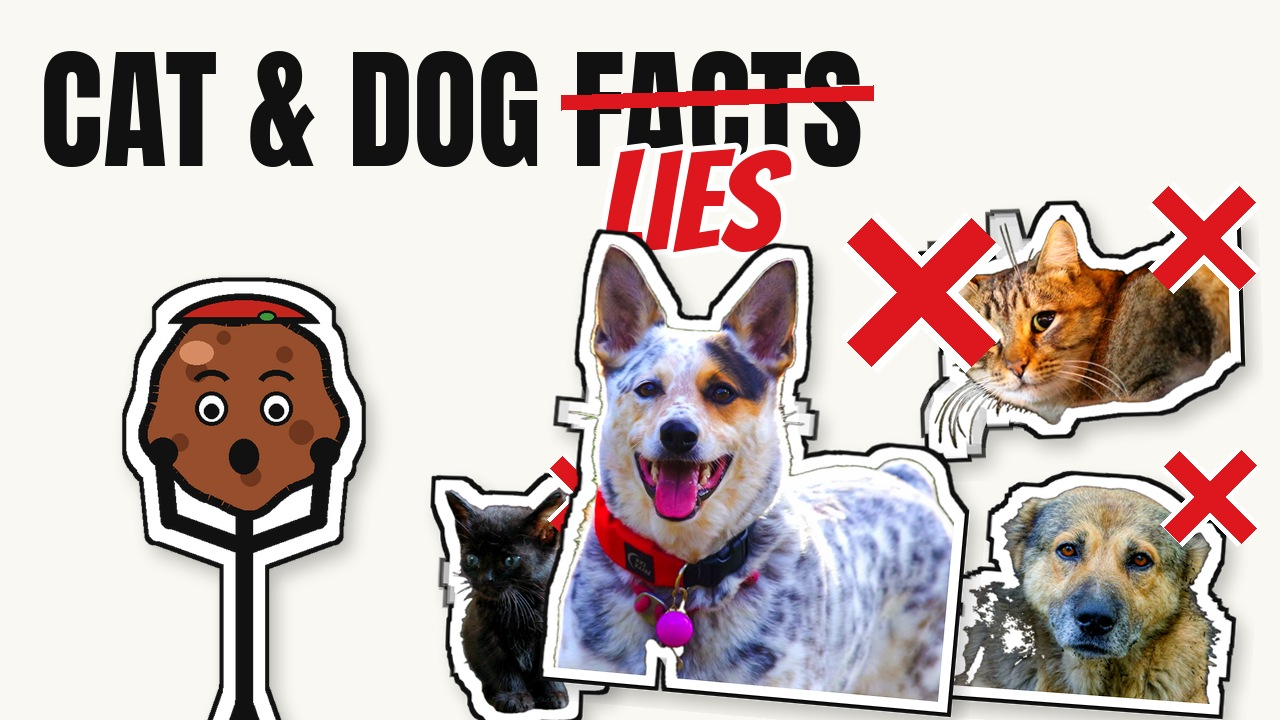
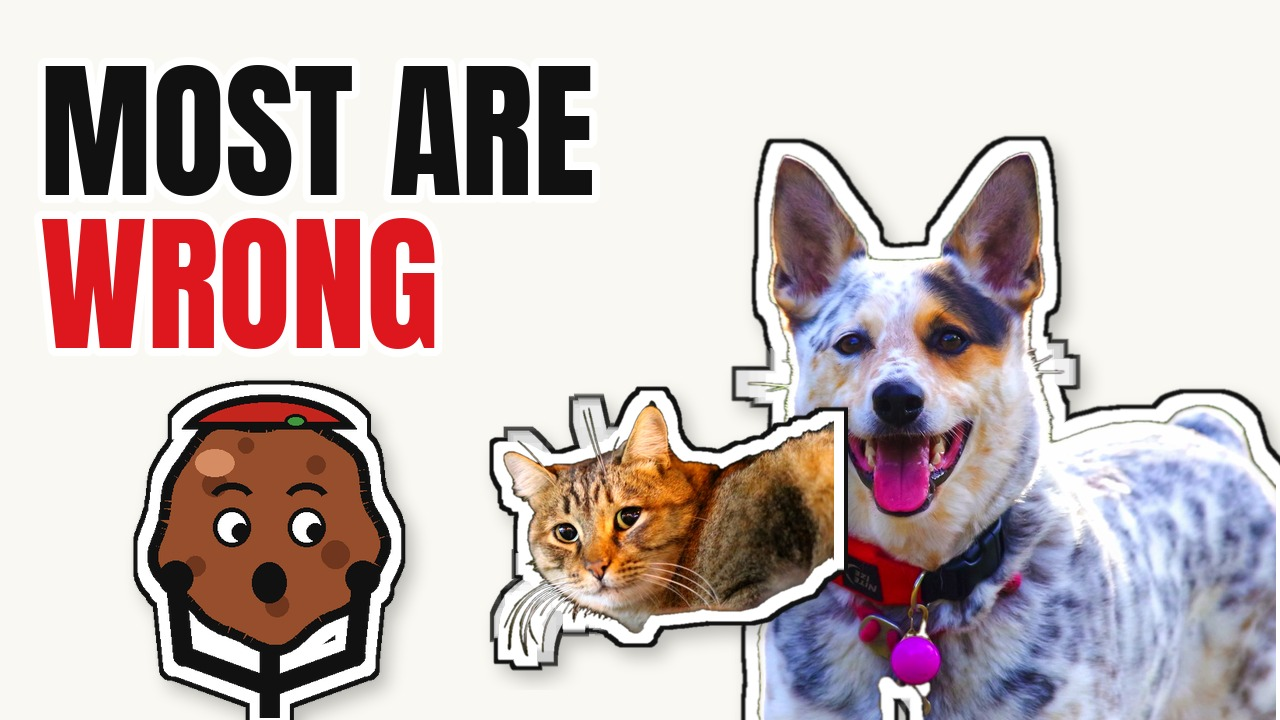
Thumbnail spec v4 generator (thumb4.py) from research/25; Meatball gaze control; Episode 6 thumbnail
Claude-Session: https://claude.ai/code/session_01B6g5mJGtBmh6CLoEx3Vyyw

diff --git a/skills/oh-meatball/tools/thumb4.py b/skills/oh-meatball/tools/thumb4.py
@@ -1,0 +1,75 @@
+#!/usr/bin/env python3
+"""Thumbnail spec v4 (research/25-thumbnails.md), myth-list layout: one hero animal (face visible, >= 45% of
+the frame height), at most one secondary animal, a 2-4 word headline whose capitals are >= 12% of the frame
+height, and Meatball as head-and-shoulders bottom-left, looking at the animal. One red device at most.
+Bottom-right 22% x 18% stays free for YouTube's duration stamp. Also writes 168 px and 360 px previews.
+
+Usage: thumb4.py OUT.jpg HERO.jpg [SECOND.jpg] --headline "MOST ARE|WRONG" [--x] [--pose shock]
+"""
+import argparse
+
+from PIL import Image, ImageDraw, ImageFont
+
+from mascot import draw
+from thumb3 import H, HEAVY, INK, PAPER, RED, W, cutout, red_x, sticker
+
+
+def fit(im, h):
+    s = h / im.height
+    return im.resize((int(im.width * s), h), Image.LANCZOS)
+
+
+def main():
+    ap = argparse.ArgumentParser()
+    ap.add_argument("out")
+    ap.add_argument("hero")
+    ap.add_argument("second", nargs="?")
+    ap.add_argument("--headline", required=True, help="2-4 words; '|' splits the two lines, last line is red")
+    ap.add_argument("--x", action="store_true", help="red X on the secondary animal (the myth being judged)")
+    ap.add_argument("--pose", default="shock")
+    a = ap.parse_args()
+    lines = a.headline.split("|")
+    words = sum(len(x.split()) for x in lines)
+    assert 2 <= words <= 4 and len(lines) <= 2, "spec v4: 2-4 words on at most 2 lines"
+
+    c = Image.new("RGBA", (W, H), PAPER + (255,))
+    d = ImageDraw.Draw(c)
+
+    hero = sticker(fit(cutout(a.hero), int(H * 0.80)), edge=12, rim=4)
+    hx = W - hero.width + 30
+    c.alpha_composite(hero, (hx, H - hero.height + 40))  # touches the right and bottom edges
+    if a.second:
+        sec = sticker(fit(cutout(a.second), int(H * 0.36)), edge=10, rim=4)
+        sx, sy = max(470, hx - sec.width + 60), H - sec.height - 30
+        c.alpha_composite(sec, (sx, sy))
+        if a.x:  # the one red device, inside the sticker it judges
+            x = red_x(int(sec.height * 0.45))
+            c.alpha_composite(x, (sx + sec.width - x.width - 20, sy + 20))
+
+    size = 150
+    f = ImageFont.truetype(HEAVY, size)
+    while size > 110 and max(d.textlength(x, font=f) for x in lines) > hx - 40:
+        size -= 6
+        f = ImageFont.truetype(HEAVY, size)
+    y = 18
+    for i, line in enumerate(lines):
+        last = i == len(lines) - 1 and len(lines) > 1
+        d.text((40, y), line, font=f, fill=RED if last else INK, stroke_width=8, stroke_fill=(255, 255, 255))
+        y += int(size * 1.02)
+
+    # Head and shoulders only, gaze toward the animal; the head is ~1/3 of the frame height.
+    body = draw(a.pose, 1000, look=(11, 2)).crop((170, 160, 830, 600))
+    m = sticker(body.resize((int(660 * 0.78), int(440 * 0.78)), Image.LANCZOS), edge=10, rim=4)
+    top = max(y + 6, H - m.height + 30)  # never over the headline
+    c.alpha_composite(m, (-20, top))
+
+    c = c.convert("RGB")
+    c.save(a.out, quality=92)
+    for w in (168, 360):
+        c.resize((w, int(w * H / W)), Image.LANCZOS).save(a.out.replace(".jpg", f"_{w}.jpg"))
+    cap = f.getbbox("H")[3] - f.getbbox("H")[1]
+    print(f"ok {a.out} words={words} cap={cap / H:.0%} of height elements={2 + bool(a.second)}")
+
+
+if __name__ == "__main__":
+    main()

diff --git a/skills/oh-meatball/tools/mascot.py b/skills/oh-meatball/tools/mascot.py
@@ -54,11 +54,12 @@ def _head(d):
     d.ellipse([cx + 20, cy - 150, cx + 48, cy - 132], fill=PARSLEY, outline=INK, width=4)
 
 
-def _face(d, mouth, brow):
+def _face(d, mouth, brow, look=(0, 0)):
     cx, cy = HEAD_C
+    lx, ly = look  # pupil shift: thumbnails point his gaze at the animal or the key word
     for ex in (-48, 48):
         d.ellipse([cx + ex - 24, cy - 30, cx + ex + 24, cy + 20], fill=(255, 255, 255, 255), outline=INK, width=6)
-        d.ellipse([cx + ex - 11, cy - 12, cx + ex + 11, cy + 10], fill=INK)
+        d.ellipse([cx + ex - 11 + lx, cy - 12 + ly, cx + ex + 11 + lx, cy + 10 + ly], fill=INK)
     if brow == "up":
         for ex in (-48, 48):
             d.arc([cx + ex - 28, cy - 62, cx + ex + 28, cy - 22], 200, 340, fill=INK, width=9)
@@ -81,7 +82,7 @@ def _face(d, mouth, brow):
         d.line([(cx - 32, my + 6), (cx + 32, my + 6)], fill=INK, width=10)
 
 
-def draw(pose="neutral", size=600, mouth=None, blink=False, arms=None):
+def draw(pose="neutral", size=600, mouth=None, blink=False, arms=None, look=(0, 0)):
     """mouth/blink override the pose for animation frames; arms = {"l"/"r": (dx, dy)} moves each hand
     (the elbow follows by half) for talking gestures."""
     p = POSES[pose]
@@ -91,7 +92,7 @@ def draw(pose="neutral", size=600, mouth=None, blink=False, arms=None):
     _line(d, (500, 505), hip)                         # spine
     _line(d, hip, (440, 960)); _line(d, hip, (560, 960))  # legs
     _head(d)
-    _face(d, mouth or p["mouth"], p["brow"])
+    _face(d, mouth or p["mouth"], p["brow"], look)
     if blink:  # lids over both eyes
         cx, cy = HEAD_C
         for ex in (-48, 48):

diff --git a/skills/oh-meatball/research/25-thumbnails.md b/skills/oh-meatball/research/25-thumbnails.md
@@ -1,0 +1,126 @@
+# 25 — Thumbnails: evidence, outlier coding, and THUMBNAIL SPEC v4 (2026-10-24)
+
+**Legend.** [OFF] YouTube's own page or staff. [SCI] peer-reviewed lab research. [3P] third-party data (vendor studies, so they have an interest). [M] measured here. [I] my inference. [UNVERIFIED] not confirmed. [FOLK] common advice with no evidence found.
+Working files (not in repo): `/tmp/claude-0/-home-user/f2581a8c-fe42-5876-b5f9-d941a863a7fa/scratchpad/thumbresearch/` (contact sheets `outliers_1.jpg`, `outliers_2.jpg`, `low.jpg`, `feedsize_outliers.jpg`; `scripts/metrics.py`).
+
+## 0. The one-paragraph answer
+Our long-form problem today is **impressions, not CTR**. CTR only exists once YouTube shows the thumbnail, and for a channel with no viewer history YouTube first matches the video's *topic* to viewers' interests; "if no interested audience emerges, impressions stop" ([3P] report of Creator Insider, Sept 2026). Three independent datasets (ours, Eden's 2,960, the 1of10 300k summary) find that **design features barely separate breakouts from flops inside the same channel**; topic and promise do. So the thumbnail is a **gate** (it must read in one glance at 168 px) more than a growth lever. The spec below fixes legibility failures we can see in our own thumbnails, and leaves the open questions (white vs colour, one animal vs several) to Test & Compare.
+
+## 1. How thumbnails work in YouTube's system (2025-2026)
+- **Impression** = the thumbnail was on screen for more than 1 s with at least 50% visible. Counted on Search, Home, feeds, Up Next and playlists. Not counted: end screens, cards, embeds, the mobile web site [OFF] https://support.google.com/youtube/answer/9314486
+- **"Good" CTR.** "Half of all channels and videos on YouTube have an impressions CTR that can range between 2% and 10%". New channels (under a week old) and videos with fewer than 100 views "can see an even wider range". CTR naturally falls when a video reaches Home [OFF] https://support.google.com/youtube/answer/7628154
+  - Beaupré (YouTube Growth & Discovery): "probably all your videos have about maybe a 10% or less click-through rate", and "even your best videos, 90% of the time, your subscribed audience isn't deciding to watch". "No metric on its own is a good indicator of value." CTR drops as impressions reach people outside the core audience ([3P] write-up of Creator Insider, 2026-09-01, https://www.youtube.com/watch?v=rHLjxrbXmmY) https://ppc.land/subscribers-skip-90-of-uploads-in-their-feed-youtube-director-says/
+  - [I] For us, a CTR on a few hundred impressions is noise. Judge a thumbnail on its CTR **within one traffic source** (Search vs Browse vs Suggested), never on the blended number.
+- **CTR × average view duration (AVD).** "You can tell if your thumbnail is clickbait if it's getting high CTR but low average view duration", and clickbait "is less likely to get recommended" [OFF] (answer/7628154). The system also uses satisfaction surveys alongside clicks and watch time ([3P] SEJ interview with Beaupré) https://www.searchenginejournal.com/how-youtubes-recommendation-system-works-in-2025/538379/
+- **Browse vs Suggested.** Home is personalised per viewer ("hey Rene is here"). For a new channel with no history, the system matches the topic to stated interests and keeps showing it only while engagement arrives ([3P], ppc.land above). Videos are sometimes recommended many times (an experiment once capped it at 8) before someone clicks, so one ignored impression is not a verdict [3P].
+  - No official source describes how Suggested weighs the thumbnail [UNVERIFIED]. [I] Suggested sits next to a video the viewer is already watching, so the topic link (the title) matters more there than visual punch.
+- **Test & Compare (A/B).** Up to 3 thumbnails and/or titles, desktop Studio only, long-form only (**not Shorts**). The winner is the variant with the highest **watch-time share**, "over other metrics, like click-through-rate". Results are *Winner* (statistically significant), *Performed same* or *Inconclusive* (the first upload stays). A test runs up to about 2 weeks and stops if you edit the title or thumbnail mid-test [OFF] https://support.google.com/youtube/answer/13861714
+  - YouTube's advice for first tests: start with "bigger differences between thumbnails" (layout, image), then refine details. Its stated goal is "thumbnails that make a promise and videos that deliver on it" [OFF] https://blog.youtube/creator-and-artist-stories/renes-top-five-june-14-2024/
+- **Thumbnail vs title vs topic.**
+  - Eden (507k videos; 1,486 breakout vs 1,474 underperformer thumbnails, same channels' medians): brightness 40.9 vs 40.5, contrast 23.5 vs 23.1, saturation 35.2 vs 34.7, faces 84.2% vs 82.2%, i.e. **flat**. Real but small edges: 4-6 words of text (30.6% vs 26.5%) and drawn-on arrows/circles (41.8% vs 38.1%) [3P] https://eden.so/blog/what-makes-a-good-youtube-thumbnail/
+  - 1of10 (300k+ outliers, as summarised by SEJ): thumbnails with and without faces "perform similarly"; faces help only bigger channels, and modestly [3P] https://www.searchenginejournal.com/do-faces-help-youtube-thumbnails-heres-what-the-data-says/563944/
+  - Our own pixel metrics (section 3) show the same flatness.
+  - **Conclusion:** topic and promise come first, the title is second (it carries search), and thumbnail craft is a hygiene factor that cannot rescue a topic nobody wants.
+
+## 2. Perception research at feed size
+Display sizes (third-party, no official spec): the desktop sidebar is about **168×94**, desktop Home and Search about 360×202, and mobile search about 156-170 px wide [3P] https://tubecore.xpanddigital.io/blog/youtube-thumbnail-size-guide . At 168 px wide the image is shrunk 7.6x, so a 1 px detail at feed size is about 8 px at 1280.
+- **Faces pull the eye first.** In free viewing, people fixate a face with over 80% probability within the first two fixations (500 ms) [SCI] (Cerf, Harel, Einhäuser & Koch, NeurIPS 2007). Faces and text drew 16.6x and 11.1x more looks than equal-sized regions [SCI] (Cerf, Frady & Koch, J. Vision 2009) https://resolver.caltech.edu/CaltechAUTHORS:20130816-103355264
+  - [I] The face and the text should be the two things we place deliberately. They will be looked at first whatever else is on the canvas.
+- **Emotion.** Schematic threatening faces were found faster than friendly ones in crowds [SCI] (Öhman et al. 2001) https://pubmed.ncbi.nlm.nih.gov/11300573/
+  - In the wild, though, exaggerated "shock" faces are rare among breakouts: 5-6% in vidIQ's 500, 8.5% vs 7.7% (breakout vs flop) in Eden's sample, about 11% in Thumbnail Bench's [3P] https://vidiq.com/research/youtube-thumbnail-study/ , https://www.netinfluencer.com/?p=53558
+  - **"Shocked face = more clicks" is [FOLK].** Emotion that tells the story ("this is wrong", "gross", "smug") is the defensible use.
+- **Gaze direction steers attention.** Schematic cartoon eyes looking left or right shift observers' attention reflexively, even when the gaze doesn't predict anything [SCI] (Friesen & Kingstone 1998, as described in later papers, original not read) https://pmc.ncbi.nlm.nih.gov/articles/PMC1855005
+  - [I] This is the cheapest measurable win available: Meatball should **look at the hero animal**, not at the viewer.
+- **Text size and word count.** vidIQ 500 breakouts: 28% have no text, 24% have 1-3 words, 17% 4-5, and the median among thumbnails with text is 5 words; it describes usage, not cause [3P]. Eden finds the 4-6 word band slightly over-represented in breakouts [3P].
+  - "3 words max" is [FOLK]: no study shows it.
+  - Legibility is physics [I]: at 168×94, a cap height under about 9-10 px is unreadable, which means **≥12% of frame height** at 720.
+- **Number of elements.** No study counts objects vs CTR [UNVERIFIED]. vidIQ's most common top-50 layout is a "face filling roughly one-third of the frame, with a short, bold hook", with text "opposite the face" [3P]. Beaupré's "often less is more" was about feed density, not thumbnails [3P], so do not cite it as thumbnail evidence.
+- **Colour against YouTube's UI.** Brightness, saturation and warmth are flat between breakouts and flops (Eden) [3P]. "Never use white backgrounds, they vanish in light mode" is [FOLK]: the biggest channel in our niche (What Gives?) uses 57-68% white pixels [M], and so does Sam O'Nella (54%) [M].
+- **Curiosity gap.** The information-gap theory says curiosity comes from a *specific* known gap (Loewenstein 1994, Psych. Bulletin) [SCI, not re-read].
+  - Clickbait evidence is mixed. Question headlines made readers more negative about the story (Scacco & Muddiman, Engaging News Project) [SCI-ish] https://www.journalism.co.uk/readers-perceive-question-based-headlines-more-negatively-study-shows/ . Clickbait did not raise curiosity more than plain headlines (Molina et al., CHI 2021) [SCI] https://pike.psu.edu/publications/chi21.pdf
+  - [I] Use a *concrete* gap ("THE MOST DANGEROUS IS…" + two named options, HI17), not a vague "?!".
+- **Title and thumbnail: one story, not the same story.** In Eden's sample, thumbnail text repeated the title verbatim in only 6.3% of breakouts vs 6.8% of flops, and 39% share no words with the title [3P].
+  - The MrBeast production guide treats title and thumbnail as one promise the video must keep, and puts them first in production [3P] https://simonwillison.net/2024/Sep/15/how-to-succeed-in-mrbeast-production/
+  - "Complement, don't repeat" is practitioner consensus with no controlled test [FOLK-plus].
+
+## 3. Outlier coding: our niche [M]
+Method: yt-dlp flat extraction of the newest ~60 long-form uploads per channel (2026-10-24), each video's views ÷ the channel median, thumbnails from i.ytimg.com. Coded by eye from the contact sheets.
+- **HI (21):** the top 3 per niche channel, plus 1 each from WildNature Lab, Sam O'Nella and Casually Explained. Ratios run 4-50x, except Sam O'Nella 1.9x and Casually Explained 3x.
+- **LO (10):** the lowest ratio per channel, skipping the newest 3 uploads. Ratios run 0.0-0.16x.
+- Bias: some LO videos may be early-channel or unlisted. Quiz Madness HI15/16 are off-niche personality quizzes.
+
+| Feature (count) | HI n=21 | LO n=10 |
+|---|---|---|
+| Main headline 1-4 words | 18 (median 3) | 5 (median 3.5) |
+| 6+ words incl. labels | 2 (HI16, HI17) | 4 |
+| Any face (human / cartoon / animal) | 16 (6 / 5 / 5) | 8 |
+| Exaggerated emotion (shock, scream, fear, disgust) | 6 | 3 |
+| Picture elements ≤3 / ≥4 | 11 / 10 | 6 / 4 |
+| Background: white / light parchment / dark or photo / saturated tiles | 5 / 4 / 9 / 3 | 3 / 0 / 5 / 2 |
+| Red arrow | 7 (all creature channels) | 2 |
+| Red X or MYTH/LIE/SCAM stamp | 4 (X on animals: 1, HI04) | 1 |
+| Split "before → after" / A-vs-B panels | 6 | 1 |
+| Text adds info (not a restatement of the title) | 13 | 5 |
+| Pixel medians: luminance / contrast / white share / saturation / edge density at 168 px | .50 / .26 / .02 / .40 / .30 | .51 / .30 / .13 / .30 / .31 |
+| Ours (3 thumbs), same metrics | .72 / .32 / .53 / .15 / .29 | |
+
+What the table supports:
+1. **Short headlines dominate** among the HI (18/21 have 1-4 words), and long word-salad shows up more in LO (4/10). Small n.
+2. **Style does not explain flops inside a channel.** What Gives? LO04 "YOU ARE LIARS" and LO05 "Life As TREX" use the identical white + stick-face + drawings template as HI06-08 and still got 0.09-0.16x. Mysterious-Fact LO07 uses its own Myth→Reality split and got 0.0x. **Topic decided those.**
+3. **Pixel statistics are flat** (HI ≈ LO), which matches Eden.
+4. **Two families of breakout grammar exist in our niche:**
+   - (a) white page, a crude stick-figure face reacting in the top-left at ~30-35% of frame height, 3-5 drawn animals, a 3-word coloured headline (What Gives?, Sam O'Nella, Casually Explained);
+   - (b) dark, dramatic "MYTH → REALITY" / "EXTINCT → ALIVE" two-panel with a red arrow and 1-2 words (Myths-creature, Mysterious-Fact; 49x, 24x, 22x).
+5. Nobody in the HI set puts a red X on several photos the way our v3 does. Lying Pie's HI04 does it on *drawings* with a single "MYTH" stamp.
+
+**Our three thumbnails, judged against this:**
+- myths-06 A: 4 stickers and 4 X's, and the X marks land on the *neighbouring* animal (the big X sits on the cat but belongs to the dog). "LIES" is clipped by the dog's ear. Meatball's head is ~15% of the width and stares at the viewer, and his legs waste ~25% of the frame height. Cut-out halos show.
+- myths-05: "FACTS ~~FAKE~~ REAL?!" contradicts itself; the flamingo and hummingbird are faded and tiny.
+- myths-06 B (sunburst): the most legible at 168 px (3 words, one big animal, a stamp), but the cut-out ghosting is visible.
+
+## 4. Faceless and mascot specifics: does Meatball's face work like a human face?
+- **Evidence for:** schematic faces produce face-like N170 brain responses, larger for angry ones [SCI] https://www.aimspress.com/article/doi/10.3934/Neuroscience.2015.3.172 . Schematic faces show the threat-detection advantage (Öhman) and drive gaze cueing (Friesen & Kingstone) [SCI]. Simplified faces such as emoticons and stick figures can be read for emotion *faster* than photos, though the evidence is mixed for more detailed cartoons [SCI review] https://www.frontiersin.org/journals/psychology/articles/10.3389/fpsyg.2021.687974/full
+- **Evidence in the market:** 5 of the 21 HI are stick-figure faces, including channels with 4-5M subscribers [M].
+- **Evidence missing:** no study compares a mascot with a human face on CTR [UNVERIFIED]. 1of10 even finds human faces neutral overall [3P].
+- [I] Meatball's face plausibly gets the attention advantage, *if* it is big enough to resolve at 168 px. At feed size his eyes should be at least 3 px, which means pupils ≥ ~2% of the frame width at 1280. The expression must be a single readable shape (an open mouth, raised brows). He is our only ownable brand asset, so he should be in every thumbnail at the same place and scale. That builds recognition for returning viewers, which matters more than the shock value itself.
+
+## 5. THUMBNAIL SPEC v4 (rules the generator enforces; [E] = evidence-based, [I] = inference, [T] = to be settled by Test & Compare)
+1. **Words.** The headline is **2-4 words**, with no more than 5 words of text in total including the badge. No labels on individual animals. [E: HI 18/21; Eden 4-6 band]
+2. **Text size.** Headline cap height **≥12% of H (≥86 px at 720)**. No text anywhere under 8% of H (58 px). At most 2 lines. [I: legibility at 168×94]
+3. **Text contrast.** Luminance contrast ratio of at least **7:1** against the pixels directly behind it; dark ink on white, or white with a ≥8 px black stroke on colour. Measure it on the 168 px render. [I]
+4. **Title relationship.** Thumbnail text shares **at most 1 content word** with the title (the subject noun). It adds the verdict, the twist or the stakes; it does not repeat the question. [E-weak: Eden 6.3% verbatim; FOLK-plus]
+5. **Element budget.** At most **3 picture elements**: Meatball, the hero animal and at most one secondary animal, plus 1 text block and an optional badge. [I; HI split 11/10, so [T] for list episodes]
+6. **Hero animal.** The largest element, with height **≥45% of H**. A photo where the **animal's face and eyes are visible** and facing the camera or Meatball. Saturation and contrast boosted, never faded. [E: faces attract gaze, Cerf]
+7. **Meatball scale.** Head + shoulders only (crop above the waist, **no stick legs**). Head height **≥33% of H** (today ~31%, with ~25% wasted on legs). Pupils ≥2% of W. Same corner every time, bottom-left. [E: vidIQ face ≈ 1/3 frame; I]
+8. **Meatball gaze.** His pupils point at the hero animal or the key word; never straight out on a list or single-myth thumbnail. [E: gaze cueing]
+9. **Meatball expression.** One of 3 storytelling poses, mapped to the format: `aghast` (myth list), `smug-wrong` (single myth, where he is about to be wrong), `curious` (history). Default shock is not a strategy. [E: shock rare in breakouts]
+10. **Red is the verdict.** One red device per thumbnail: one strike-through *or* one X *or* one stamp *or* one arrow. **Never more than one X**, and an X must sit fully inside the sticker it judges. [M: our X's land on neighbours; HI never stacks X's on photos]
+11. **Background.** Keep the brand off-white paper, with white-pixel share **≤60%** (ours 0.53-0.61, What Gives? 0.57-0.68). The animal photo and Meatball must touch at least 2 frame edges, so the tile doesn't float in light mode. White vs coloured is [T], not a rule. [M; FOLK on "white vanishes"]
+12. **Safe zones.** Nothing essential in the **bottom-right 22% W × 18% H** (the duration stamp) or the bottom 4% (the watch-progress bar). Keep 3% margins for the rounded corners. Series badge top-right, ≤8% of the area. [I: UI observation]
+13. **Cut-out quality gate.** Hard alpha (as thumb3 does) plus a white rim ≥8 px. Reject a cut-out if more than 2% of the rim pixels sit at mid-grey alpha (halo), and fall back to a framed photo tile. [M: halos on myths-06]
+14. **One-glance gate.** The generator also writes `thumb_168.png` (168×94) and `thumb_360.png` next to the full size and prints the measured headline cap height in px, the word count and the element count. A human looks at the 168 px version for 1 second and must be able to name the animal and the promise. [I]
+15. **Don'ts.** No self-contradicting headlines ("FACTS FAKE REAL?!"); no 4-animal X collage; no Meatball full body; no text in the safe zones; no title echo; and no claim the video doesn't pay off in its first 30 s (high CTR + low AVD is penalised [OFF]).
+
+## 6. Three layout templates (1280×720)
+**A. Myth list ("12 Cat & Dog Myths").** Headline across the top 25%: `CAT LIES` (2 words) or `<SUBJECT> ~~FACTS~~` in black Anton, with one red marker strike. The hero animal photo takes the right 55%, 50-60% of H tall, face toward the left. One secondary animal (≤60% of the hero's height) sits behind it, top-right, with no X. Meatball's head and shoulders fill the bottom-left, head at 35% of H, eyes on the hero, `aghast`. One red X on the hero sticker's top-left corner (inside it). A `#6` badge top-right. The bottom-right corner stays clear.
+
+**B. Single shocking myth ("Do Ostriches Really Bury Their Heads?").** Two panels split at 55/45, borrowing the creature channels' MYTH → REALITY grammar but on white:
+- Left panel: a Meatball-drawn gag of the myth (an ostrich with its head in sand), labelled `MYTH` in red.
+- Right panel: the real photo of the animal, labelled `REAL` in black.
+- A red hand-drawn arrow from left to right, the only red device besides the label. Meatball's head peeks in from the bottom-left corner, `smug-wrong`, looking at the arrow.
+- Title variant: the question; thumbnail text: only `MYTH` / `REAL` (2 words).
+
+**C. Meatball Explains (history).** Sam O'Nella register: white page, a 2-word serif headline (`PLINY LIED`, `DISNEY'S FAKE`). The culprit (a Pliny stick figure, or a single archival image or still in a framed tile, slightly rotated) takes the right 50%. Meatball takes the left 40% at head height ≥35% of H, `curious`, holding a prop such as a scroll or magnifier, eyes on the culprit. No X, no stamp; at most one red underline under the culprit's name. Badge `EXPLAINS #3` top-right.
+
+## 7. Measurement plan (Test & Compare)
+- **Eligibility.** Long-form only, desktop Studio, set at upload (Nolan task). Shorts can't be tested, so Shorts first frames stay governed by research/24.
+- **Reality check.** With 0-10 views per episode, tests will come back *Inconclusive* until impressions exist. Fix distribution first: link each Short's "Related video" to its episode, and give each episode a search title (research/24). Upload 3 variants anyway: it costs nothing and starts collecting once impressions arrive.
+- **Design.** One factor per test series, with big differences first, as YouTube advises:
+  1. Week 1-2: **Layout A vs current v3 vs sunburst v2** (the big swing).
+  2. Then **Meatball big + gaze-at-animal vs Meatball small + gaze-at-viewer**.
+  3. Then **1 animal vs 3 animals**.
+  4. Then **white vs colour background**.
+- **Decision rule.** Count only *Winner* results. A factor is adopted after it wins **5 of 5** or **8+ of 10** episodes (one-sided sign test p ≈ 0.03 / 0.055). "Performed same" counts as no evidence, never as a loss.
+- **Logging.** One row per test in data/experiments.csv: episode, factor, variants (file hashes), result, watch-time share, and Studio CTR **by traffic source** (Search, Browse, Suggested) for each variant over the first 7 days.
+- **Guardrails.** A winning variant must not cut 30-second retention by more than 5 points. If CTR rises while AVD falls, treat it as clickbait and reject it [OFF].
+- **Proxy until impressions exist.** Score each new thumbnail against the spec's automatic checks (rules 1, 2, 3, 5, 10, 11, 12, 13) and run the 1-second human test at 168 px. vidIQ's `score_thumbnail` is a model whose validity is unverified, so treat it only as a tie-breaker.
